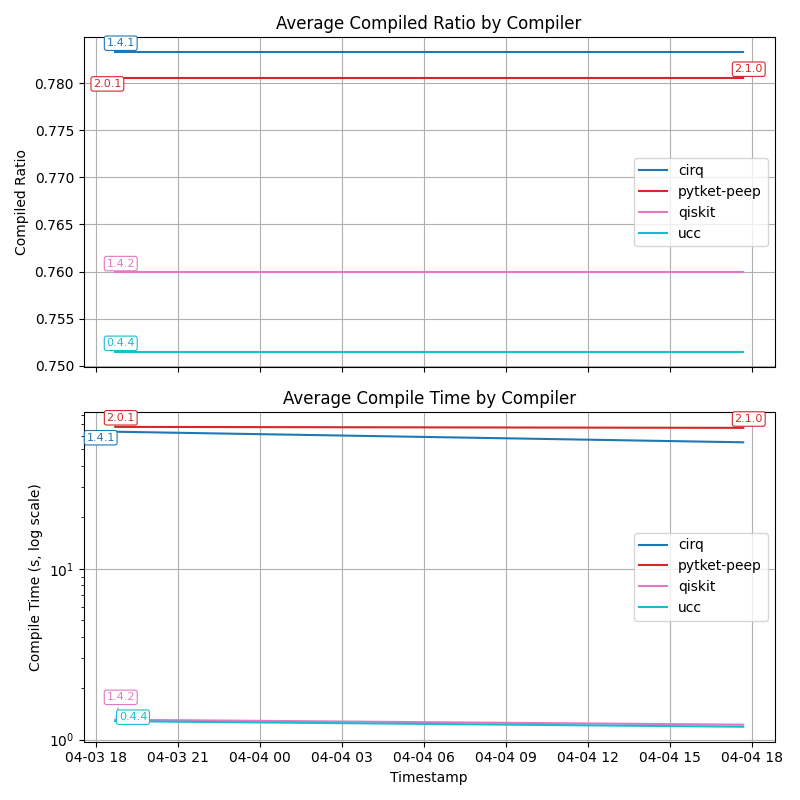
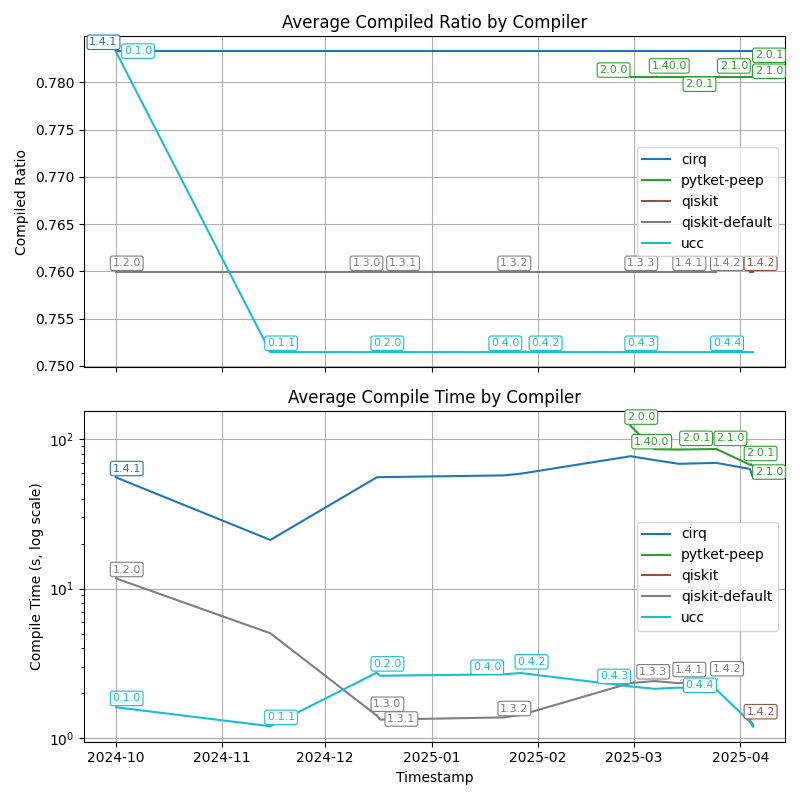
Backport legacy results

diff --git a/.github/scripts/plot_avg_by_time_benchmark.py b/.github/scripts/plot_avg_by_time_benchmark.py
@@ -22,8 +22,23 @@ timing_results_db = SuiteResultsDatabase.from_root(
 # changed from the prior run.
 timing_results = timing_results_db.get_versions_changed()
 df = pd.concat((to_df_timing_detailed(d) for d in timing_results))
+
+# Path in data from old `ucc` runs (see results/README.md)
+# Add in legacy timing results
+df_legacy = pd.read_csv(
+    Path(root_dir) / runner_name / "timing_benchmarks" / "legacy_timing_results.csv"
+)
+df_legacy["compile_time_ms"] = df_legacy["compile_time"] * 1000
+df_legacy["benchmark_id"] = df_legacy["circuit_name"]
+df_legacy["uid_timestamp"] = pd.to_datetime(df_legacy["date"], utc=True)
+df_legacy = df_legacy[df.columns]
+df = pd.concat([df, df_legacy], ignore_index=True)
+df.sort_values("uid_timestamp", inplace=True)
+
+# Add calculated columns
 df["compile_time"] = df["compile_time_ms"] / 1000
 df["compiled_ratio"] = df["compiled_multiq_gates"] / df["raw_multiq_gates"]
+
 
 # --- STEP 2: Group by (uid_timestamp, compiler) ---
 avg_df = (

diff --git a/src/ucc_bench/results.py b/src/ucc_bench/results.py
@@ -158,7 +158,6 @@ def to_df_timing_detailed(suite_results: SuiteResults) -> pd.DataFrame:
             "compiled_multiq_gates": result.compilation_metrics.compiled_multiq_gates,
             "compiler_version": result.compiler.version,
             "uid_timestamp": suite_results.metadata.uid_timestamp,
-            "upstream_timestamp": suite_results.metadata.upstream_timestamp,
         }
         for result in suite_results.results
     ]

diff --git a/results/ucc-benchmarks-8-core-U22.04/README.md b/results/ucc-benchmarks-8-core-U22.04/README.md
@@ -1,0 +1,21 @@
+# UCC Benchmark Results
+
+This directory contains the "official" benchmark results of
+[UCC](https://github.com/unitaryfoundation/ucc).
+
+The top-level [`README`](../../README.md) explains the design an interface for
+the benchmarks that generate these results generally. This file explains more
+details specific to the "offical" results
+
+## Directory Structure
+
+## Relation to git history
+
+## Github Action Workflows
+
+## Legacy Results
+
+Prior to `ucc-bench`, benchmark results were run and stored directly in the `ucc`
+repository. For the plots showing benchmark results over time, we wanted to include
+those earlier results. We did this by editing the corresponding [plot script](https://github.com/unitaryfoundation/ucc/blob/470f8e6a69e6c8bf209dc904c21d38940e7b8d3b/benchmarks/scripts/plot_avg_benchmarks_over_time.py#L68)
+and saving a CSV with the aggregated results. Those "legacy" results are saved as [legacy_timing_results.csv][./timing_benchmarks/legacy_timing_results.csv], and then loaded into the new [plot script](../../.github/scripts/plot_avg_by_time_benchmark.py) to show the full history.
